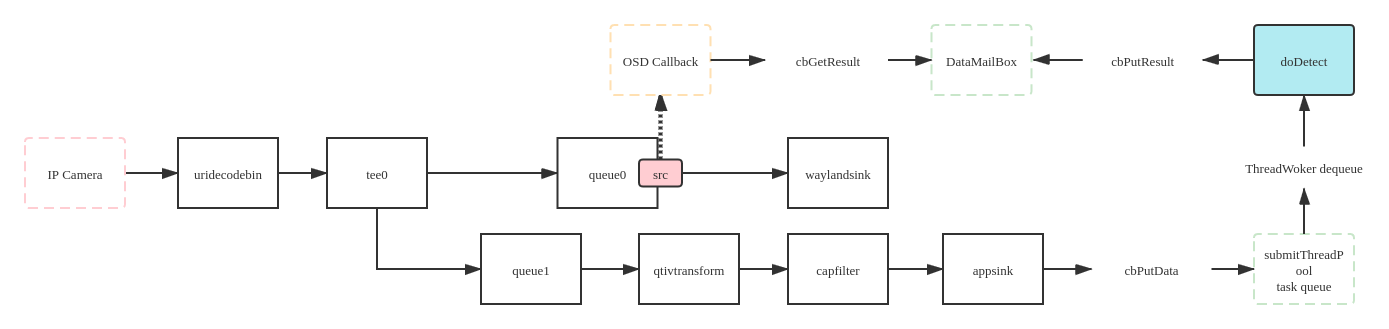
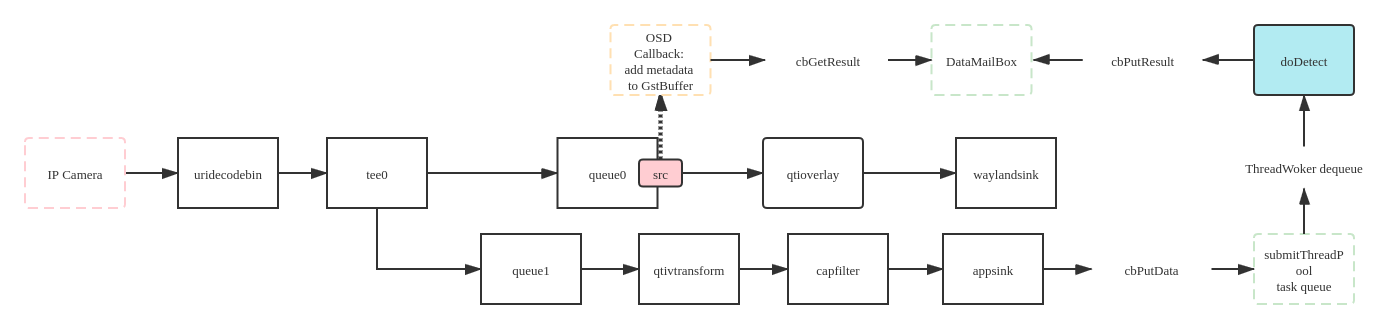
update README.md

diff --git a/README.md b/README.md
@@ -108,6 +108,39 @@ if (sample) {
 
 维持一个算法已处理帧计数`appsinked_frame_count_`(s)和当前帧耗时`period_us_count`(us)。假设当前要控制算法处理帧率为5FPS，即`dst=5`，每sink一帧相当于增加1s，在5帧内，只要视频源的速度大于5FPS，`cur`都会大于5，这时直接释放`GstSample`并返回；直到第6帧，`cur`将小于5，送算法并且计数器加1，以此实现均匀跳帧。
 
+## qtioverlay
+
+`qtioverlay`是高通平台上用于给`NV12`格式图片帧绘画的一个Gstreamer插件，它读取GstBuffer中的metadata然后使用GPU完成Rectangle和name(string)的绘制。
+
+```c++
+#include <ml-meta/ml_meta.h> // -l libqtimlmeta.so
+
+// in osdResult(): replace drawYUVRect() to followning line
+{
+    GstMLDetectionMeta *meta = gst_buffer_add_detection_meta(buffer);
+    if (!meta) {
+        TS_ERR_MSG_V ("Failed to create metadata");
+        return ;
+    }
+
+    GstMLClassificationResult *box_info = (GstMLClassificationResult*)malloc(
+        sizeof(GstMLClassificationResult));
+
+    uint32_t label_size = g_labels[results->at(i).label].size() + 1;
+    box_info->name = (char *)malloc(label_size);
+    snprintf(box_info->name, label_size, "%s", g_labels[results->at(i).label].c_str());
+
+    box_info->confidence = results->at(i).confidence;
+    meta->box_info = g_slist_append (meta->box_info, box_info);
+
+    meta->bounding_box.x = results->at(i).rect[0];
+    meta->bounding_box.y = results->at(i).rect[1];
+    meta->bounding_box.width = results->at(i).rect[2];
+    meta->bounding_box.height = results->at(i).rect[3];
+}
+
+```
+
 ## 编译&运行
 
 ```shell
